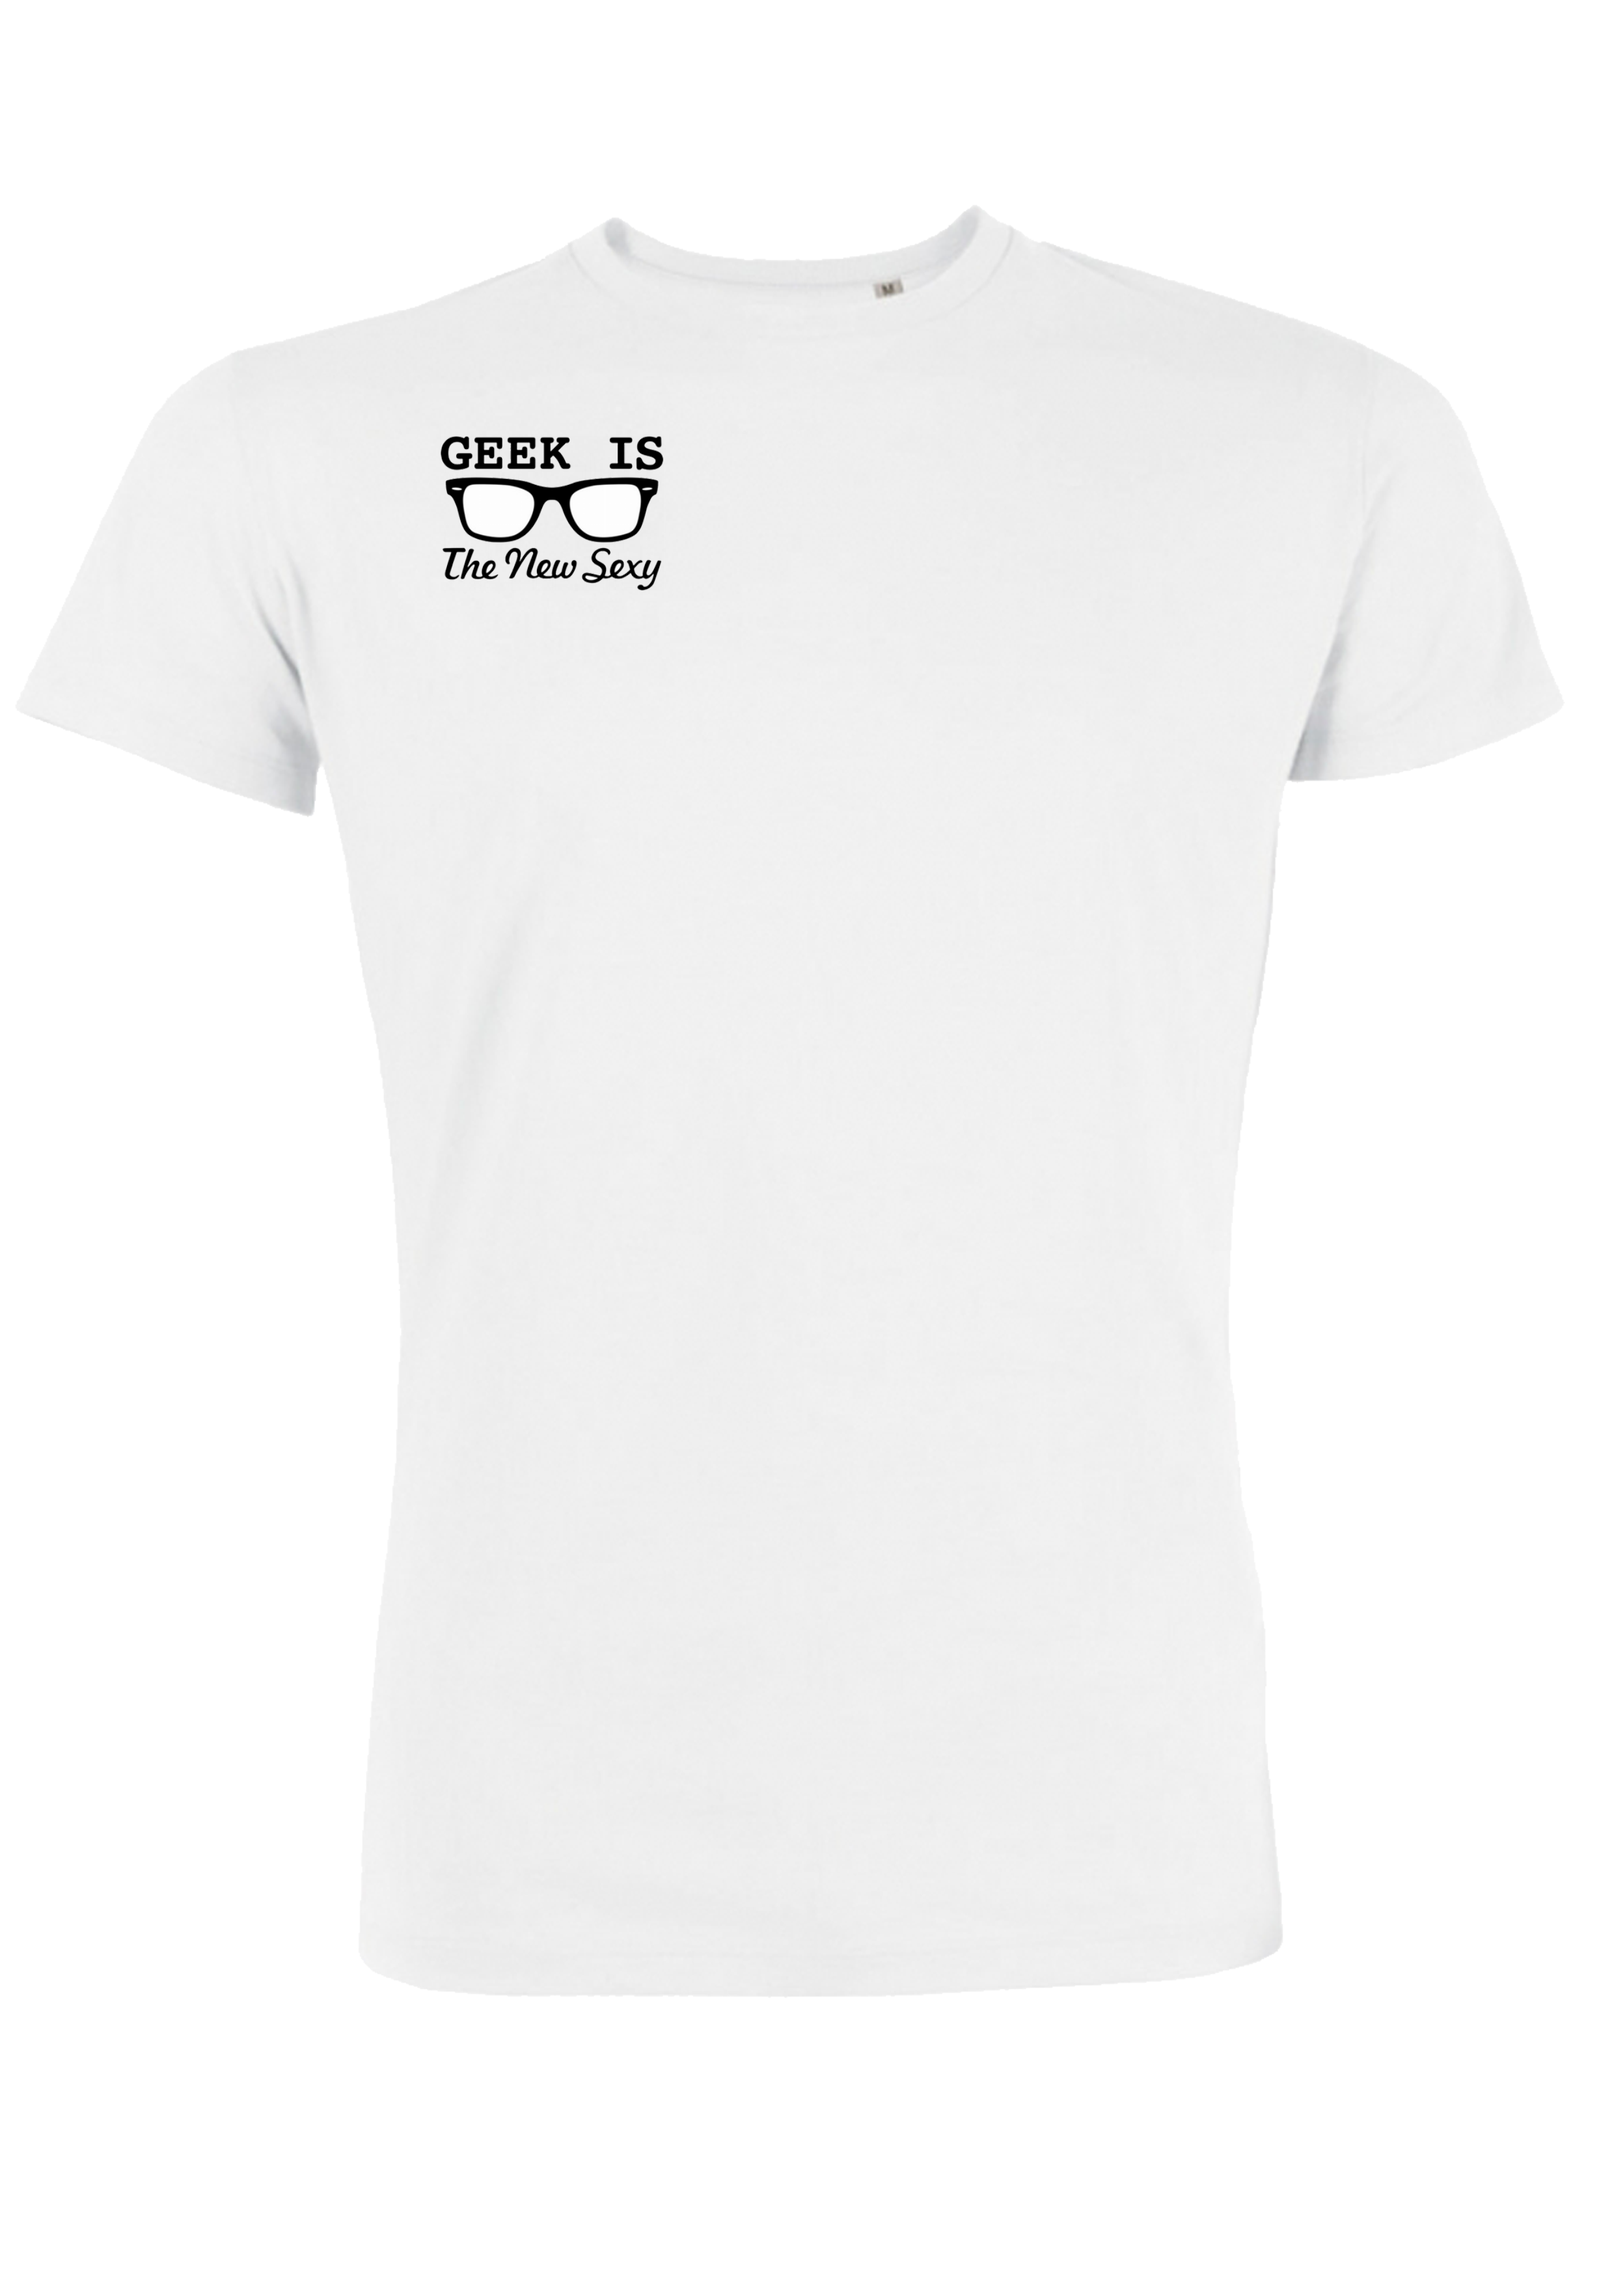
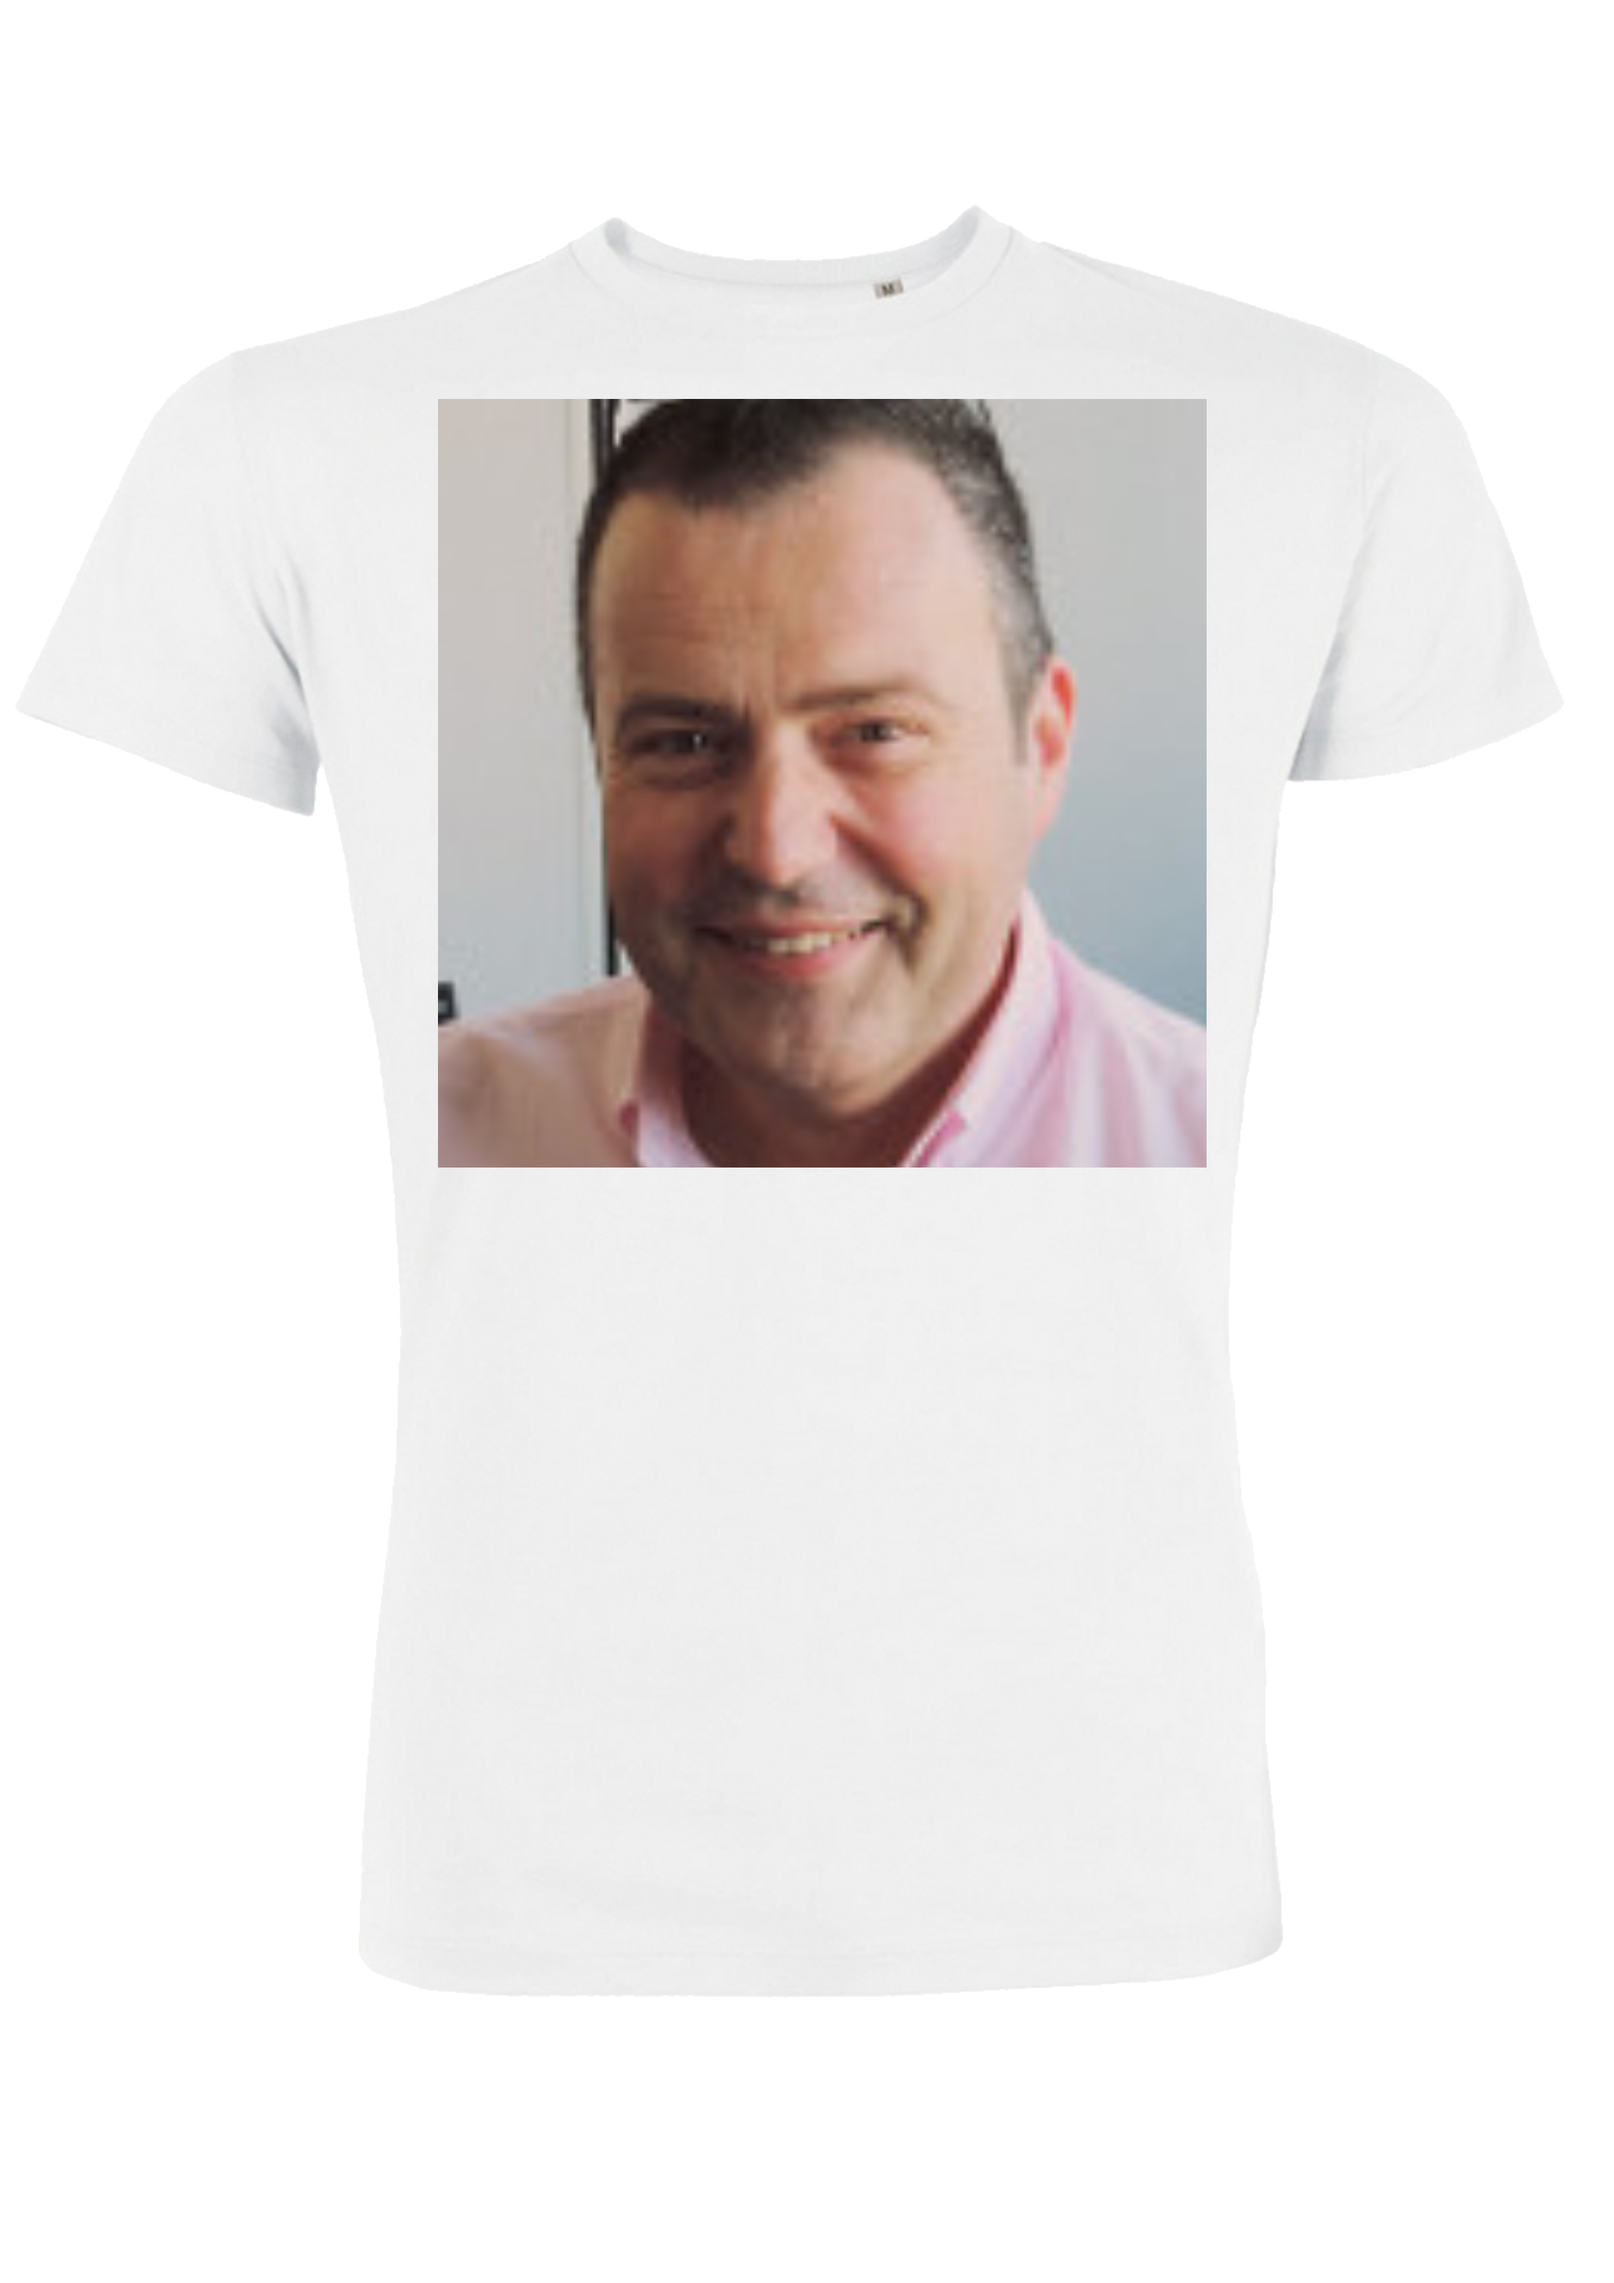
it works now!

Changed region(s): [[0.2484, 0.1554, 0.7452, 0.5282]]

diff --git a/php.php b/php.php
@@ -40,23 +40,23 @@
 
 	$hauteur_source = imagesy($source);
 	// MISE A 100% DE LARGEUR OU HAUTEUR (SELON LE MOTIF) DE LA ZONE UTILE
-	
 	$largeur_max = 1181;
-	$hauteur_max = 2362;	
-	
+	$hauteur_max = 2362;
+  // $scale = $_POST['percent'];
+
 	// Étape 1 :
-	$NouvelleLargeur = 350;
-	
+	$NouvelleLargeur = 1181;
+
 	// Étape 2 :
 	$Reduction = ( ($NouvelleLargeur * 100)/$largeur_source );
-	
+
 	// Étape 3 :
 	$NouvelleHauteur = ( ($hauteur_source * $Reduction)/100 );
 
 	$sourceScaled = imagescale( $source, $NouvelleLargeur, $NouvelleHauteur );
-	//imagepng($source, $pictureSourceUrl);
+	imagepng($sourceScaled, $pictureSourceUrl);
 
-	echo ("La nouvelle largeur du motif est de " . $NouvelleLargeur . " px. ");
+	echo ($Reduction . "La nouvelle largeur du motif est de " . $NouvelleLargeur . " px. ");
 	//
 	$destination = imagecreatefrompng($pictureDestinationUrl); // La photo est la destination
 	echo (getimagesize($source));
@@ -78,7 +78,6 @@
 	$destination_x = $_POST['x']+673; // COIN HAUT GAUCHE DE LA ZONE UTILE EN X
 
 	$destination_y =  $_POST['y']+613; // COIN HAUT GAUCHE DE LA ZONE UTILE EN Y
-	
 // $destination_x = 0;
 // $destination_y = 0;
 	// On met le logo (source) dans l'image de destination (la photo)
@@ -87,7 +86,7 @@
 	imagesavealpha($source, true);
 	imagesavealpha($destination, true);
 
-	imagecopymerge_alpha($destination, $sourceScaled, $destination_x, $destination_y, 0, 0, 	$NouvelleLargeur, $NouvelleHauteur, $transparency);
+	imagecopymerge_alpha($destination, $sourceScaled, $destination_x, $destination_y, 0, 0, $NouvelleLargeur, $NouvelleHauteur, $transparency);
 
 
 	// On affiche l'image de destination qui a été fusionnée avec le logo
@@ -109,10 +108,10 @@
 
 	imagesavealpha($destination, true);
 	imagesavealpha($source, true);
-  	imagepng($destination, $newFile);
+	imagepng($destination, $newFile);
 
-    // echo $newFile;
-echo "<br/><img src='$newFile' width='50%' height='auto'><br/>";
+  // echo $newFile;
+  echo "<br/><img src='$newFile' width='50%' height='auto'><br/>";
 
 	$arr = array('source' => $newFile, 'loading' => 'finished');
 	$arr2 = json_encode($arr);
